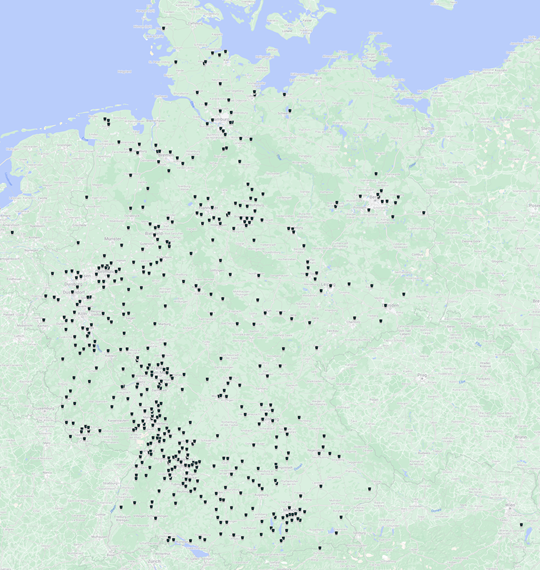
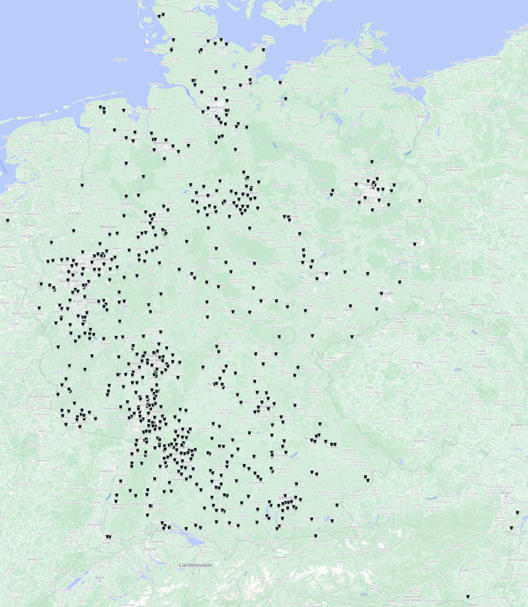
Update map

diff --git a/index.md b/index.md
@@ -45,7 +45,7 @@ Folgende baugleiche Wallboxen sind ebenfalls kompatibel mit wbec:
 - Walther Werke Basic Evo Pro
 
 ## Kartenansicht
-wbec sorgt seit 2021 bereits bei über 600 Nutzern in ganz Deutschland für optimales Laden! Und täglich werden es mehr. Werde auch du einer davon und sichere dir jetzt dein [wbec-Modul](docs/bestellung.html)!
+wbec sorgt seit 2021 bereits bei über 700 Nutzern in ganz Deutschland für optimales Laden! Und täglich werden es mehr. Werde auch du einer davon und sichere dir jetzt dein [wbec-Modul](docs/bestellung.html)!
 <center>
 {% assign name = "wbecMap.png" %}
 {% assign nameBig = "wbecMapLarge.png" %}
